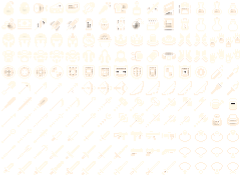
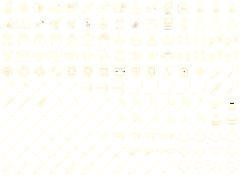
I think we were getting misaligned inventory images because the boarder

diff --git a/src/app/page.tsx b/src/app/page.tsx
@@ -1844,7 +1844,7 @@ export default function EvolvingChessPage() {
         const oldStreak = killStreaks[capturingPlayer] || 0;
         let capturesThisTurn = 0;
         if (capturedPieceFromApply) capturesThisTurn++;
-        if (pieceCapturedByAnvilFromApply) capturesThisTurn++;
+        if (pieceCapturedByAnvil) capturesThisTurn++;
 
         const newStreak = capturesThisTurn > 0 ? (oldStreak + capturesThisTurn) : 0;
         if (capturesThisTurn > 0) {
@@ -1873,10 +1873,10 @@ export default function EvolvingChessPage() {
           }
           setShowCaptureFlash(true);
           setCaptureFlashKey(k => k + 1);
-        } else if (pieceCapturedByAnvilFromApply) {
+        } else if (pieceCapturedByAnvil) {
           audioManager.playObliterate();
-          finalCapturedPiecesForTurn[capturingPlayer].push({ ...pieceCapturedByAnvilFromApply, id: `${pieceCapturedByAnvilFromApply.id}_cap_anvil_${uniqueIdCounterRef.current++}` });
-          toast({ title: "Anvil Crush!", description: `${getPlayerDisplayName(currentPlayer)}'s Pawn push made an Anvil capture a ${pieceCapturedByAnvilFromApply.type}!`, duration: 8000 });
+          finalCapturedPiecesForTurn[capturingPlayer].push({ ...pieceCapturedByAnvil, id: `${pieceCapturedByAnvil.id}_cap_anvil_${uniqueIdCounterRef.current++}` });
+          toast({ title: "Anvil Crush!", description: `${getPlayerDisplayName(currentPlayer)}'s Pawn push made an Anvil capture a ${pieceCapturedByAnvil.type}!`, duration: 8000 });
           setShowCaptureFlash(true);
           setCaptureFlashKey(k => k + 1);
         } else if (moveBeingMade.type === 'castle') {